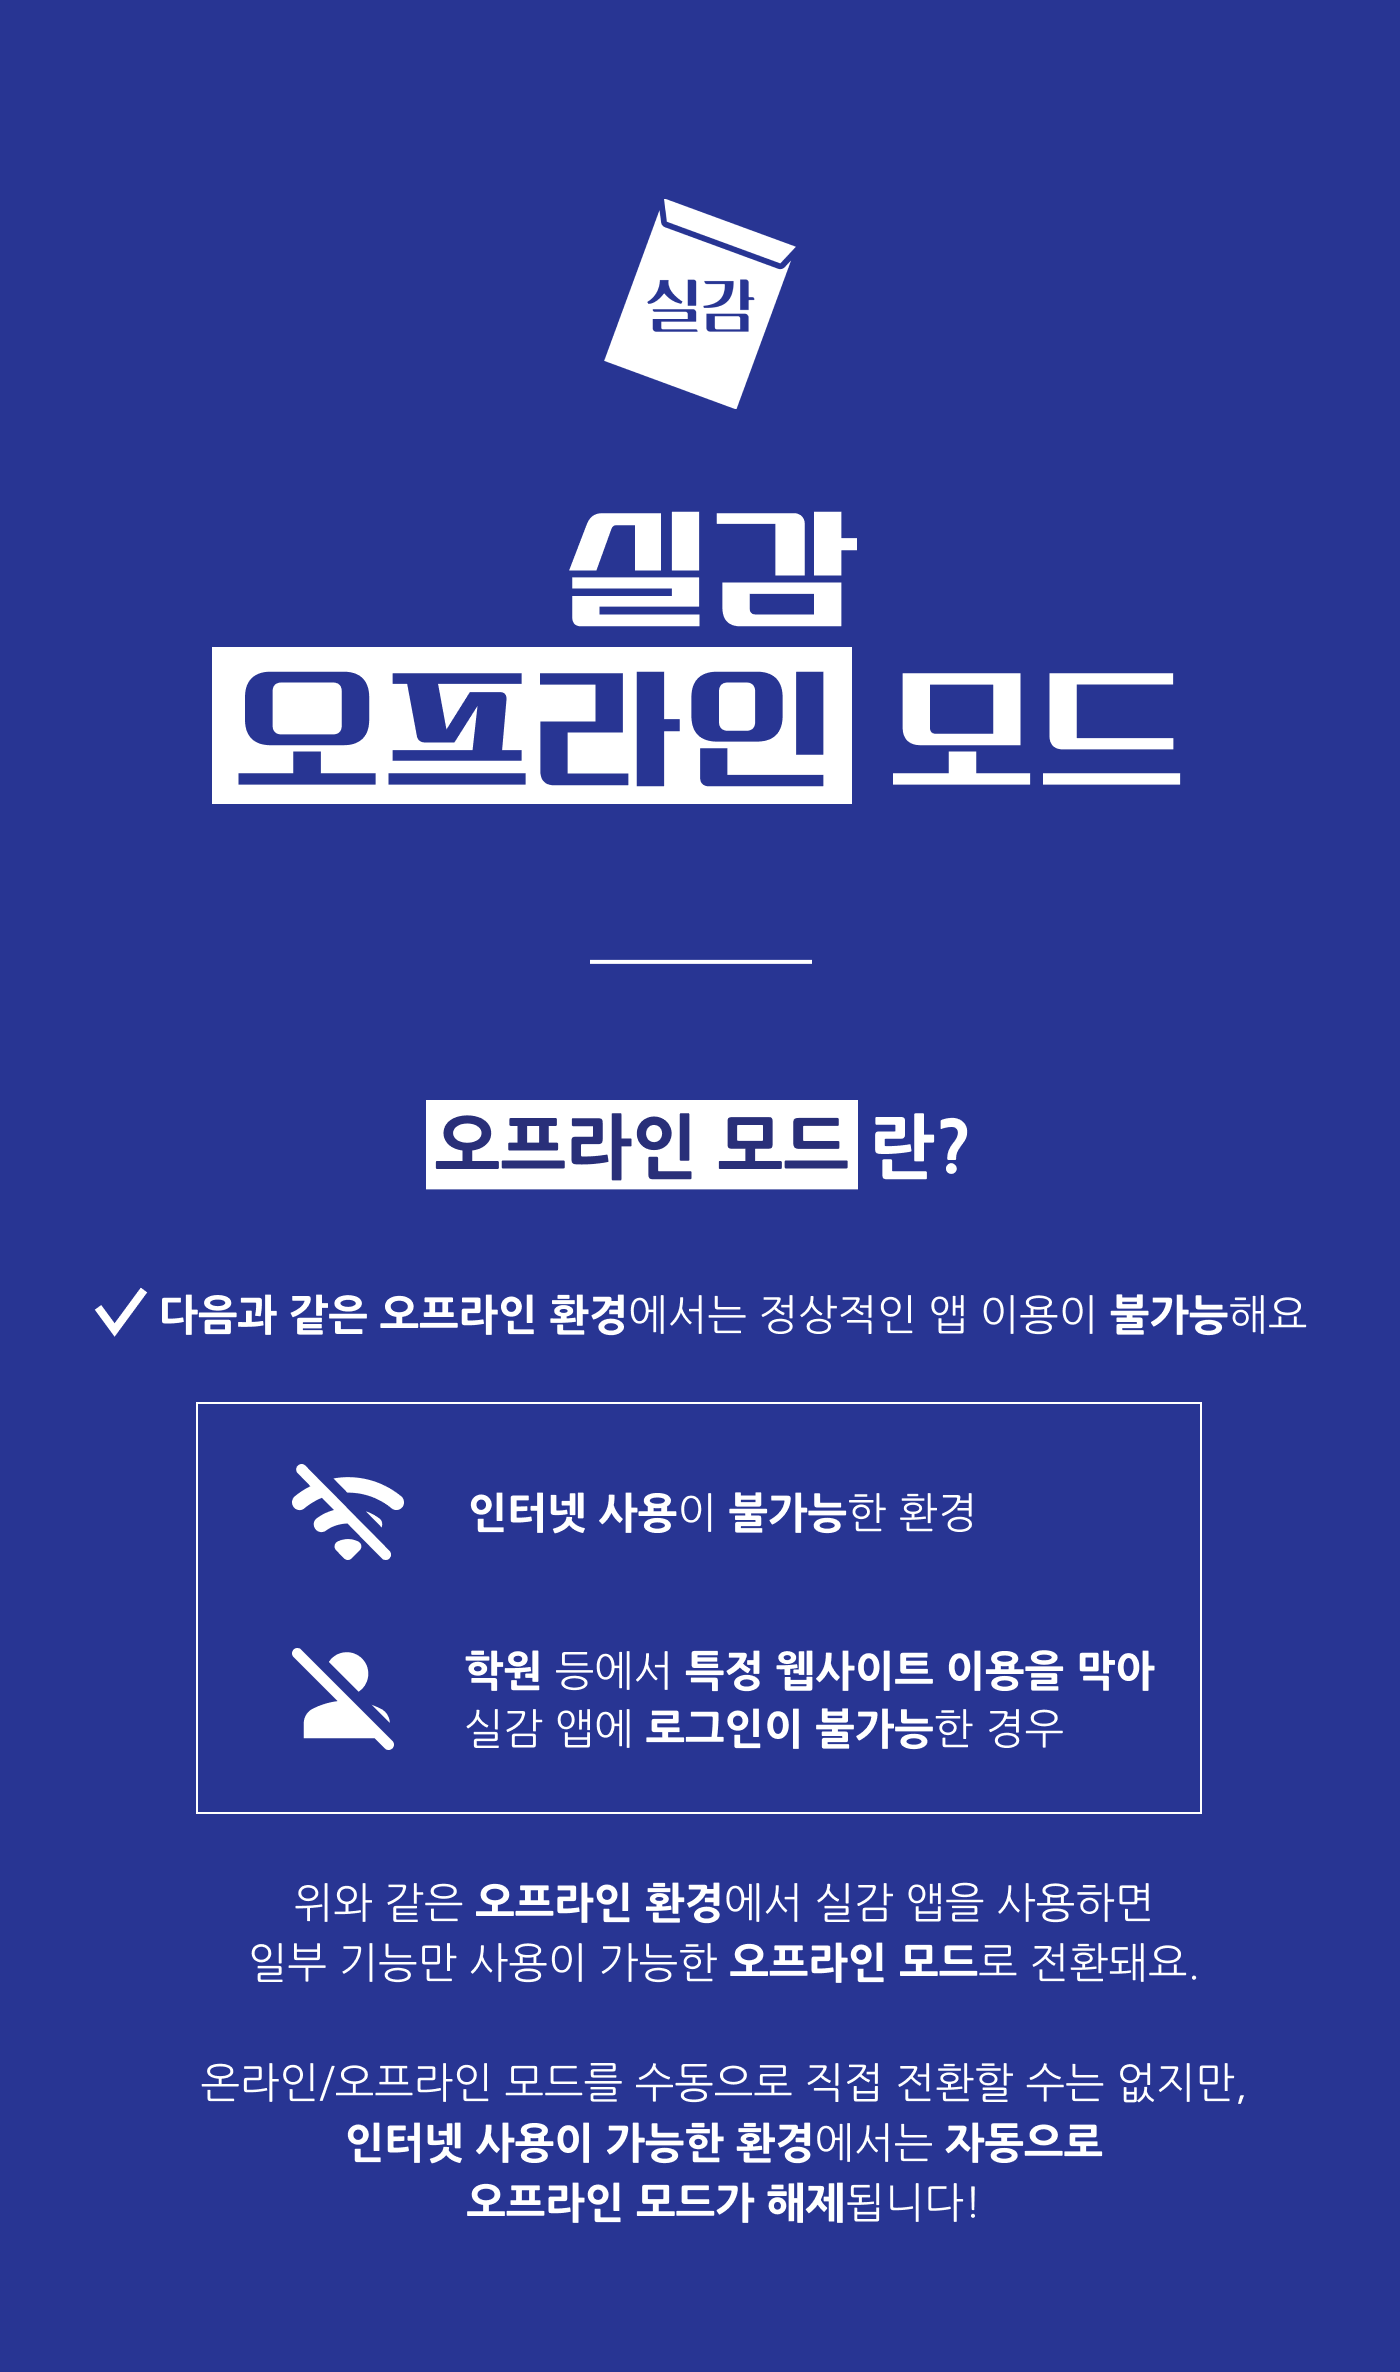
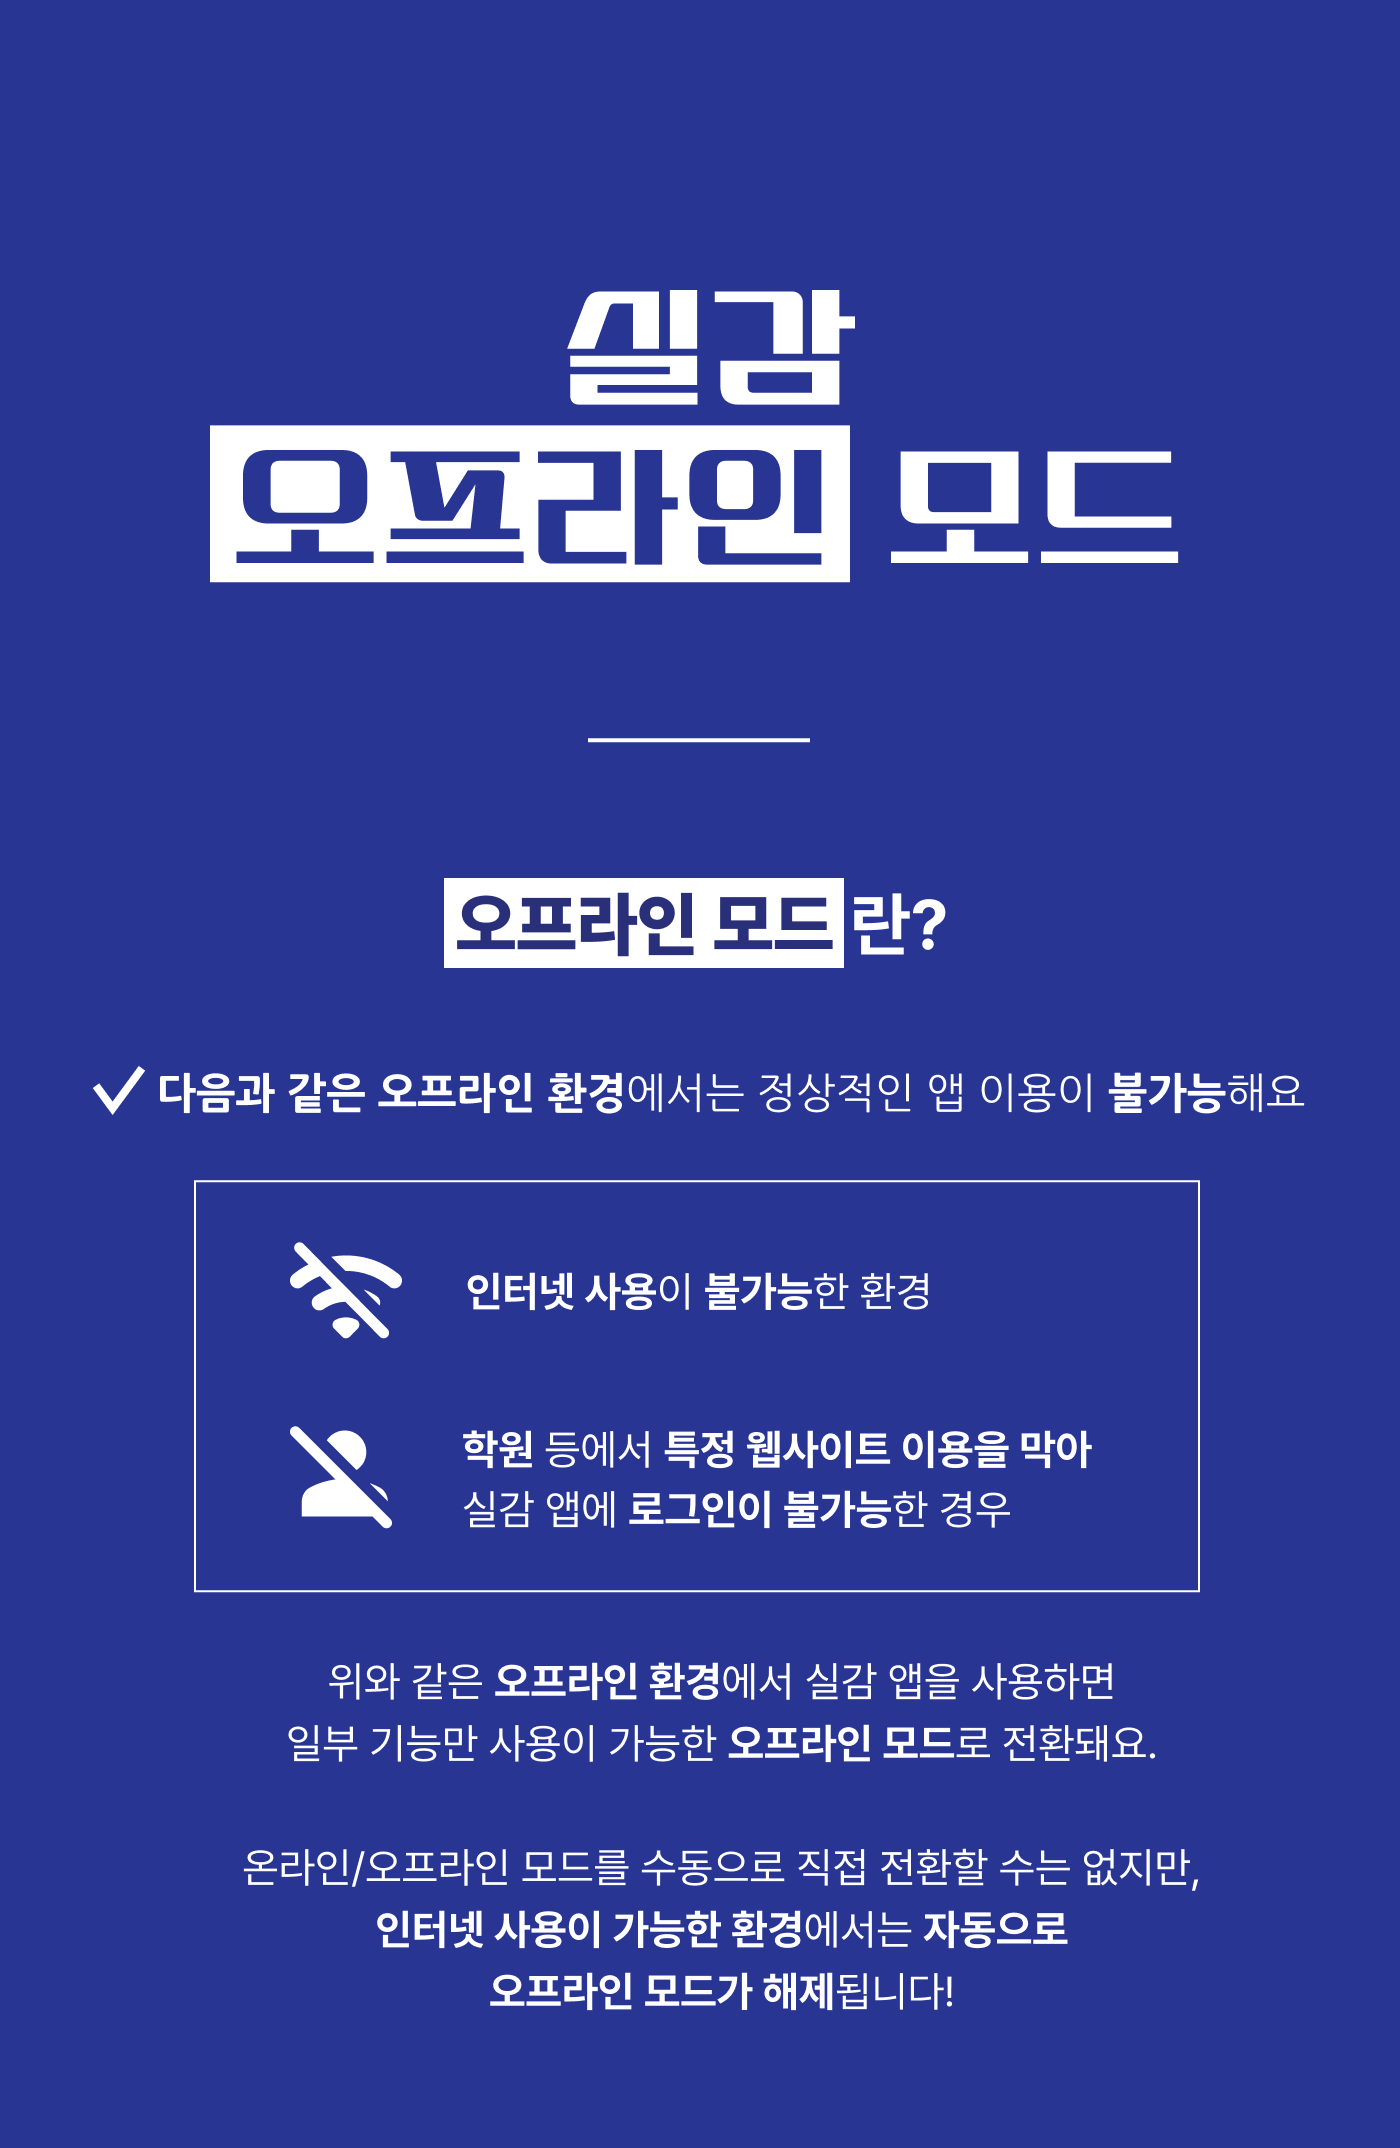
오프라인 안내 페이지 수정

diff --git a/lib/presentation/offline/offline_guide_page.dart b/lib/presentation/offline/offline_guide_page.dart
@@ -49,7 +49,7 @@ class OfflineGuidePage extends StatelessWidget {
                           'assets/offline_guide_3.png',
                           fit: BoxFit.contain,
                         ),
-                        const SizedBox(height: 200),
+                        const SizedBox(height: 100),
                       ],
                     ),
                   ),
